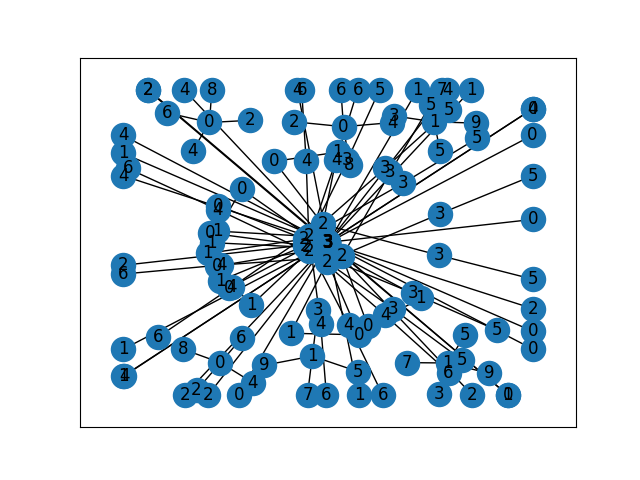
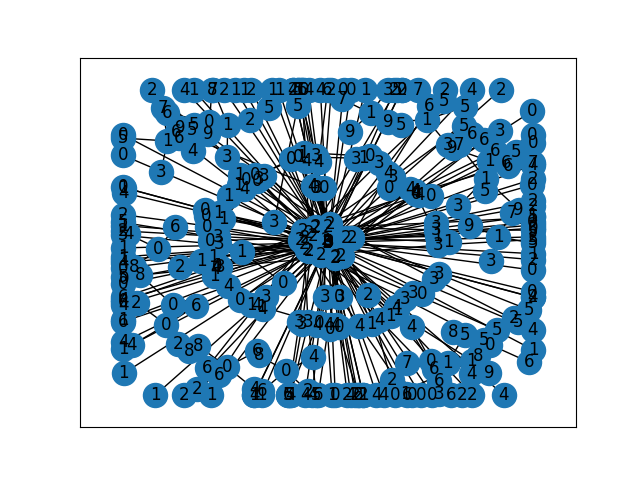
understood till how the termination events are generated

Changed region(s): [[0.1562, 0.1562, 0.875, 0.875]]

diff --git a/Deep_QLearning_5G-master/main_deepsara.py b/Deep_QLearning_5G-master/main_deepsara.py
@@ -249,8 +249,9 @@ class Sim:
 
     def print_eventos(self):## print the infos about an event
         print("HORARIO: ",self.horario,"\nTotal Eventos:",len(self.eventos))
-        for i in range(len(self.eventos)): ## loop the events
-            print(str(self.eventos[i]), end=" > \n")
+    
+        #for i in range(len(self.eventos)): ## loop the events
+            #print(str(self.eventos[i]), end=" > \n")
            
            
         #print("++list: ",len(self.window_req_list[0])+len(self.window_req_list[1])+len(self.window_req_list[2]))
@@ -473,7 +474,7 @@ def resource_allocation(cn): #cn=controller
     max_node_profit = substrate.graph["max_cpu_profit"]*sim.run_till
     max_link_profit = substrate.graph["max_bw_profit"]*sim.run_till
     max_profit = max_link_profit + max_node_profit
-
+    print("granted req list contains: ",sim.granted_req_list)
     for req in sim.granted_req_list: 
         # print("**",req.service_type,req.nsl_graph)
         sim.attended_reqs += 1        
@@ -485,6 +486,7 @@ def resource_allocation(cn): #cn=controller
             update_resources(substrate,req,False)#instantiation, occupy resources
             evt = sim.create_event(type="termination",start=req.end_time, extra=req, f=func_terminate) ## add the event to the list of events
             sim.add_event(evt) 
+            print("added a termination event")
 
             #calculation of metrics (profit, acpt_rate, counters)           
             sim.accepted_reqs += 1
@@ -677,6 +679,7 @@ def func_arrival(c,evt): #NSL arrival  ## creates an arrival event of NSLR and i
     service_type = evt.extra["service_type"]
     inter_arrival_time = get_interarrival_time(arrival_rate)
     s.add_event(s.create_event(type="arrival",start=s.horario+inter_arrival_time, extra={"service_type":service_type,"arrival_rate":arrival_rate}, f=func_arrival))
+    print("teated arrival event ---> creration of another arrival event")
 
 
 counter_termination = 0
@@ -706,6 +709,7 @@ def func_twindow(c,evt):  ## recursive function need to understand it more
     if evt.extra["first_state"]: ## if its the first state
         #first state index
         #all resources at 100% (with granularity of 5)
+        print("entered in the first state section of func_twindow")
         state = get_state(c.substrate,c.simulation)
         
         #s = translateStateToIndex(state)
@@ -716,7 +720,8 @@ def func_twindow(c,evt):  ## recursive function need to understand it more
                                     ##edit: we dont need to calculate the next step bcz we have the action here, before we dont have since its the first state
         s = evt.extra["current_state"] ## the state
         a = evt.extra["action"]  ## the action of the event
-        #print("##agent",agente.last_state," ",agente.last_action)        
+        #print("##agent",agente.last_state," ",agente.last_action)    
+        print("entered in the else of first state of func_twindow")    
       
     sim.granted_req_list, remaining_req_list = prioritizer(sim.window_req_list, a) #the list of reqs is filtered depending on the action
     #the list is sent to the Resource Allocation module
@@ -747,12 +752,14 @@ def func_twindow(c,evt):  ## recursive function need to understand it more
     s = s_  ## set the next state to the current state
     if counter_windows  == (sim.run_till/twindow_length) - 2: ## here twindow_length is set to 1 as global, need to figure out why we substrate the 2 to set the end_state to true
         end_state = True
+        print("impossible end_state")
     else:
         end_state = False
+        
     ### ATTT!!! recursive CALL here  |
-    print("about to create the new twindow_end event")
+    
     evt = sim.create_event(type="twindow_end",start=sim.horario+twindow_length, extra={"first_state":False,"end_state":end_state,"current_state":s,"action":a}, f=func_twindow)  
-
+    print("added a twindow_end event")
     sim.add_event(evt)
     sim.window_req_list = [[],[],[]] #
     #sim.window_req_list = []
@@ -868,7 +875,7 @@ def main():
                 edge_initial = controller.substrate.graph["edge_cpu"] ## get the initial values for the ressources
                 centralized_initial = controller.substrate.graph["centralized_cpu"]
                 bw_initial = controller.substrate.graph["bw"]
-                controller.simulation.set_run_till(1)   ## set the run_till variable of SIm to 15, the end of the simulatin is after 15 time units
+                controller.simulation.set_run_till(4)   ## set the run_till variable of SIm to 15, the end of the simulatin is after 15 time units
                                                         ## initially was 15
                 prepare_sim(controller.simulation)   ## creates the arrival events and the twindow_end event to prepare the environment          
                 controller.run()    ## runs all the events of the list one by one, here we execute the run of the class SIm, and a function for each event     
